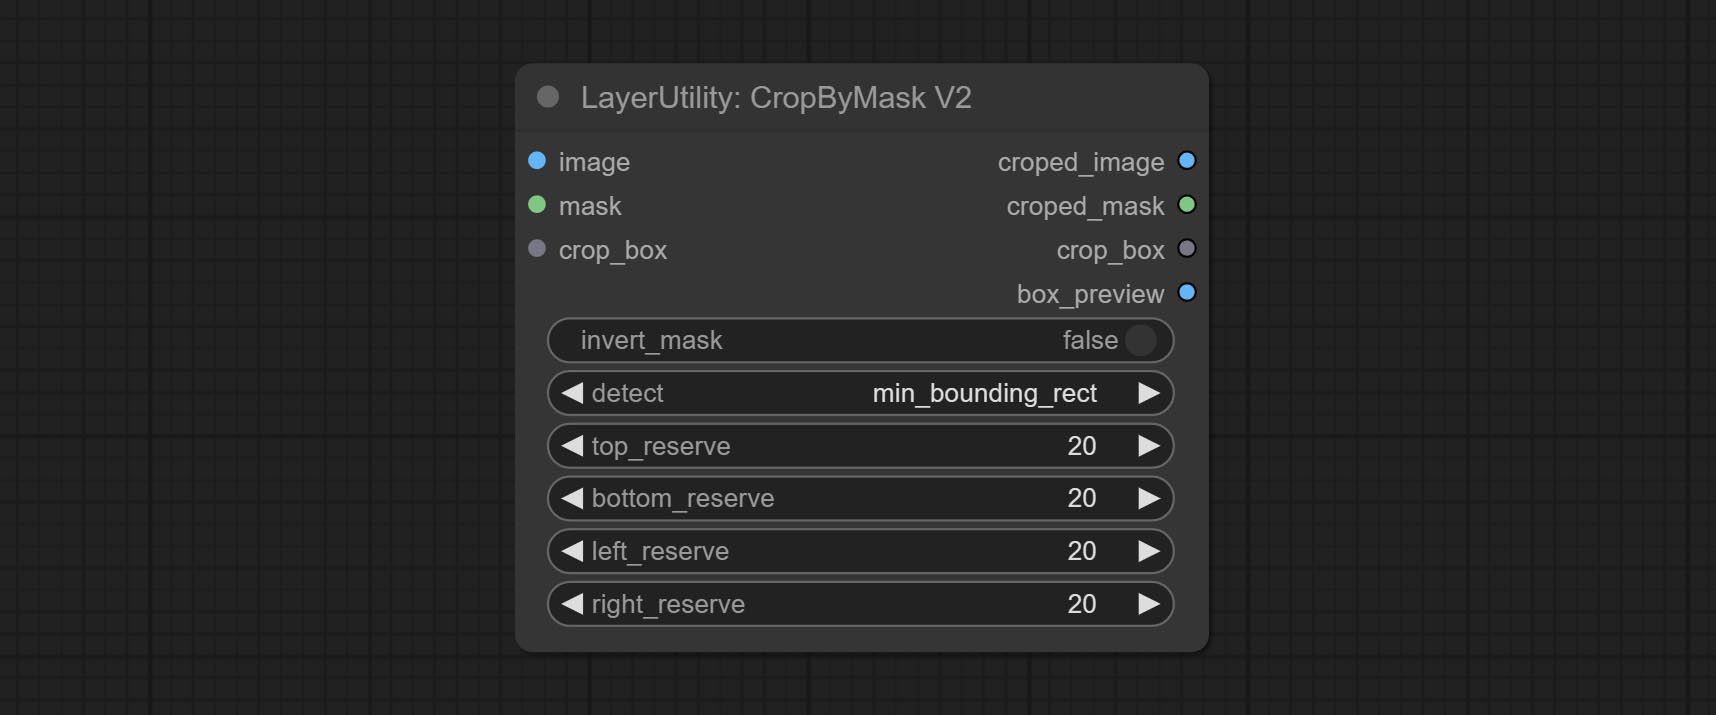
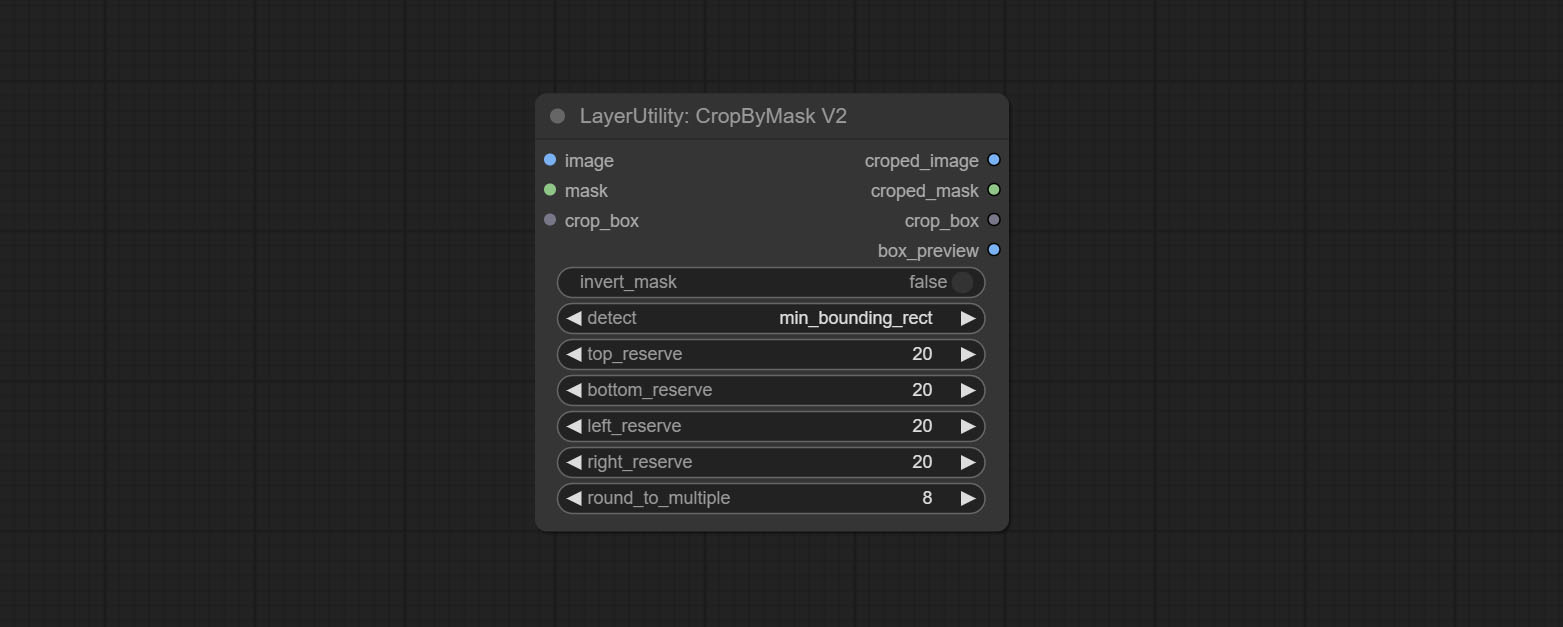
commit HSVValue, CheckMask nodes, and CropByMaskV2 node add round_to_multiple option

Changed region(s): [[0.3071, 0.2121, 0.7063, 0.8788], [0.3071, 0.1212, 0.5835, 0.3636]]

diff --git a/py/crop_by_mask_v2.py b/py/crop_by_mask_v2.py
@@ -9,7 +9,8 @@ class CropByMaskV2:
 
     @classmethod
     def INPUT_TYPES(self):
-        detect_mode = ['min_bounding_rect', 'max_inscribed_rect', 'mask_area']
+        detect_mode = ['mask_area', 'min_bounding_rect', 'max_inscribed_rect']
+        multiple_list = ['8', '16', '32', '64', 'None']
         return {
             "required": {
                 "image": ("IMAGE", ),  #
@@ -20,6 +21,7 @@ class CropByMaskV2:
                 "bottom_reserve": ("INT", {"default": 20, "min": -9999, "max": 9999, "step": 1}),
                 "left_reserve": ("INT", {"default": 20, "min": -9999, "max": 9999, "step": 1}),
                 "right_reserve": ("INT", {"default": 20, "min": -9999, "max": 9999, "step": 1}),
+                "round_to_multiple": (multiple_list,),
             },
             "optional": {
                 "crop_box": ("BOX",),
@@ -33,7 +35,7 @@ class CropByMaskV2:
 
     def crop_by_mask_v2(self, image, mask, invert_mask, detect,
                      top_reserve, bottom_reserve,
-                     left_reserve, right_reserve,
+                     left_reserve, right_reserve, round_to_multiple,
                      crop_box=None
                      ):
 
@@ -63,24 +65,31 @@ class CropByMaskV2:
             width = 0
             height = 0
             if detect == "min_bounding_rect":
-                (x, y, width, height) = min_bounding_rect(bluredmask)
+                (x, y, w, h) = min_bounding_rect(bluredmask)
             elif detect == "max_inscribed_rect":
-                (x, y, width, height) = max_inscribed_rect(bluredmask)
+                (x, y, w, h) = max_inscribed_rect(bluredmask)
             else:
-                (x, y, width, height) = mask_area(_mask)
+                (x, y, w, h) = mask_area(_mask)
 
-            width = num_round_to_multiple(width, 8)
-            height = num_round_to_multiple(height, 8)
-
-            log(f"{NODE_NAME}: Box detected. x={x},y={y},width={width},height={height}")
             canvas_width, canvas_height = tensor2pil(torch.unsqueeze(image[0], 0)).convert('RGB').size
             x1 = x - left_reserve if x - left_reserve > 0 else 0
             y1 = y - top_reserve if y - top_reserve > 0 else 0
-            x2 = x + width + right_reserve if x + width + right_reserve < canvas_width else canvas_width
-            y2 = y + height + bottom_reserve if y + height + bottom_reserve < canvas_height else canvas_height
+            x2 = x + w + right_reserve if x + w + right_reserve < canvas_width else canvas_width
+            y2 = y + h + bottom_reserve if y + h + bottom_reserve < canvas_height else canvas_height
+
+            if round_to_multiple != 'None':
+                multiple = int(round_to_multiple)
+                width = num_round_up_to_multiple(x2 - x1, multiple)
+                height = num_round_up_to_multiple(y2 - y1, multiple)
+                x1 = x1 - (width - (x2 - x1)) // 2
+                y1 = y1 - (height - (y2 - y1)) // 2
+                x2 = x1 + width
+                y2 = y1 + height
+
+            log(f"{NODE_NAME}: Box detected. x={x1},y={y1},width={width},height={height}")
             crop_box = (x1, y1, x2, y2)
-            preview_image = draw_rect(preview_image, x, y, width, height, line_color="#F00000",
-                                      line_width=(width + height) // 100)
+            preview_image = draw_rect(preview_image, x, y, w, h, line_color="#F00000",
+                                      line_width=(w + h) // 100)
         preview_image = draw_rect(preview_image, crop_box[0], crop_box[1],
                                   crop_box[2] - crop_box[0], crop_box[3] - crop_box[1],
                                   line_color="#00F000",

diff --git a/py/imagefunc.py b/py/imagefunc.py
@@ -1631,6 +1631,18 @@ def gray_threshold(image:Image, thresh:int=127, otsu:bool=False) -> Image:
 def image_to_colormap(image:Image, index:int) -> Image:
     return cv22pil(cv2.applyColorMap(pil2cv2(image), index))
 
+# 检查mask有效区域面积比例
+def mask_white_area(mask:Image, white_point:int) -> float:
+    if mask.mode != 'L':
+        mask.convert('L')
+    white_pixels = 0
+    for y in range(mask.height):
+        for x in range(mask.width):
+            mask.getpixel((x, y)) > 16
+            if mask.getpixel((x, y)) > white_point:
+                white_pixels += 1
+    return white_pixels / (mask.width * mask.height)
+
 '''Color Functions'''
 
 
@@ -1766,6 +1778,7 @@ def random_numbers(total:int, random_range:int, seed:int=0, sum_of_numbers:int=0
     ret_list.append((sum_of_numbers - sum(ret_list)) // 2)
     return ret_list
 
+# 四舍五入取整数倍
 def num_round_to_multiple(number:int, multiple:int) -> int:
     remainder = number % multiple
     if remainder == 0 :
@@ -1774,6 +1787,15 @@ def num_round_to_multiple(number:int, multiple:int) -> int:
         factor = int(number / multiple)
         if number - factor * multiple > multiple / 2:
             factor += 1
+        return factor * multiple
+
+# 向上取整数倍
+def num_round_up_to_multiple(number: int, multiple: int) -> int:
+    remainder = number % multiple
+    if remainder == 0:
+        return number
+    else:
+        factor = (number + multiple - 1) // multiple  # 向上取整的计算方式
         return factor * multiple
 
 def calculate_side_by_ratio(orig_width:int, orig_height:int, ratio:float, longest_side:int=0) -> int:

diff --git a/py/check_mask.py b/py/check_mask.py
@@ -1,0 +1,46 @@
+from .imagefunc import *
+
+NODE_NAME = 'CheckMask'
+
+# 检查mask是否有效，如果mask面积少于指定比例则判为无效mask
+class CheckMask:
+
+    def __init__(self):
+        pass
+
+    @classmethod
+    def INPUT_TYPES(self):
+        blank_mask_list = ['white', 'black']
+        return {
+            "required": {
+                "mask": ("MASK",),  #
+                "white_point": ("INT", {"default": 1, "min": 1, "max": 254, "step": 1}), # 用于判断mask是否有效的白点值，高于此值被计入有效
+                "area_percent": ("INT", {"default": 1, "min": 1, "max": 99, "step": 1}), # 区域百分比，低于此则mask判定无效
+            },
+            "optional": { #
+            }
+        }
+
+    RETURN_TYPES = ("BOOLEAN",)
+    RETURN_NAMES = ('bool',)
+    FUNCTION = 'check_mask'
+    CATEGORY = '😺dzNodes/LayerUtility'
+
+    def check_mask(self, mask, white_point, area_percent,):
+
+        if mask.dim() == 2:
+            mask = torch.unsqueeze(mask, 0)
+        mask = tensor2pil(mask[0])
+        if mask.width * mask.height > 262144:
+            target_width = 512
+            target_height = int(target_width * mask.height / mask.width)
+            mask = mask.resize((target_width, target_height), Image.LANCZOS)
+        return (mask_white_area(mask, white_point) * 100 > area_percent,)
+
+NODE_CLASS_MAPPINGS = {
+    "LayerUtility: CheckMask": CheckMask
+}
+
+NODE_DISPLAY_NAME_MAPPINGS = {
+    "LayerUtility: CheckMask": "LayerUtility: Check Mask"
+}

diff --git a/py/color_to_HSVvalue.py b/py/color_to_HSVvalue.py
@@ -1,0 +1,44 @@
+from .imagefunc import *
+
+NODE_NAME = 'HSV Value'
+any = AnyType("*")
+
+class ColorValuetoHSVValue:
+
+    def __init__(self):
+        pass
+
+    @classmethod
+    def INPUT_TYPES(self):
+
+        return {
+            "required": {
+                "color_value": (any, {}),
+            },
+            "optional": {
+            }
+        }
+
+    RETURN_TYPES = ("INT", "INT", "INT")
+    RETURN_NAMES = ("H", "S", "V")
+    FUNCTION = 'color_value_to_hsv_value'
+    CATEGORY = '😺dzNodes/LayerUtility/Data'
+
+    def color_value_to_hsv_value(self, color_value,):
+        H, S, V = 0, 0, 0
+        if isinstance(color_value, str):
+            H, S, V = Hex_to_HSV_255level(color_value)
+        elif isinstance(color_value, tuple):
+            H, S, V = Hex_to_HSV_255level(RGB_to_Hex(color_value))
+        else:
+            log(f"{NODE_NAME}: color_value input type must be tuple or string.", message_type="error")
+
+        return (H, S, V,)
+
+NODE_CLASS_MAPPINGS = {
+    "LayerUtility: HSV Value": ColorValuetoHSVValue
+}
+
+NODE_DISPLAY_NAME_MAPPINGS = {
+    "LayerUtility: HSV Value": "LayerUtility: HSV Value"
+}

diff --git a/README.MD b/README.MD
@@ -80,6 +80,8 @@ When this error has occurred, please check the network environment.
 ## Update
 <font size="4">**If the dependency package error after updating, please reinstall the relevant dependency packages. </font><br />    
 
+* [CropByMaskV2](#CropByMaskV2) add option to round the cutting size by multiples.
+* Commit [CheckMask](#CheckMask) node, it detect whether the mask contains sufficient effective areas. Commit [HSVValue](#HSVValue) node, it convert color values to HSV values.
 * [BooleanOperatorV2](#BooleanOperatorV2), [NumberCalculatorV2](#NumberCalculatorV2), [Integer](#Integer), [Float](#Float), [Boolean](#Boolean) nodes add string output to output the value as a string for use with [SwitchCase](#SwitchCase).
 * Commit [SwitchCase](#SwitchCase) node, Switches the output based on the matching string. Can be used for any type of data switching.
 * Commit [String](#String) node, Used to output a string. It is the TextBox simplified node.
@@ -564,6 +566,7 @@ The following changes have been made based on CropByMask:
 ![image](image/corp_by_mask_v2_node.jpg)    
 * The input ```mask_for_crop``` reanme to ```mask```。
 * Add optional inputs to the ```crop_box```. If there are inputs here, mask detection will be ignored and this data will be directly used for cropping.
+* Add the option ```round_to_multiple``` to round the trimming edge length multiple. For example, setting it to 8 will force the width and height to be multiples of 8.
 
 ### <a id="table1">RestoreCropBox</a>
 Restore the cropped image to the original image by [CropByMask](#CropByMask).
@@ -764,6 +767,13 @@ Output type:
 Output the color value as a single R, G, B three decimal values. Supports HEX and DEC formats for ColorPicker node output.
 
 ![image](image/RGB_value_example.jpg)    
+
+Node Options:
+* color_value: Supports hexadecimal (HEX) or decimal (DEC) color values and should be of string or tuple type. Forcing in other types will result in an error.
+
+### <a id="table1">HSVValue</a>
+Output color values as individual decimal values of H, S, and V (maximum value of 255). Supports HEX and DEC formats for ColorPicker node output.
+![image](image/hsv_value_node.jpg)    
 
 Node Options:
 * color_value: Supports hexadecimal (HEX) or decimal (DEC) color values and should be of string or tuple type. Forcing in other types will result in an error.
@@ -1168,6 +1178,14 @@ Node Options:
 * text: Input text.
 * condition: Judgment conditions. ```include``` determines whether it contains a substring, and ```exclude``` determines whether it does not.
 * sub_string: Substring.
+
+### <a id="table1">CheckMask</a>
+Check if the mask contains enough valid areas and output a Boolean value.
+
+Node Options:    
+![image](image/check_mask_node.jpg)    
+* white_point: The white point threshold used to determine whether the mask is valid is considered valid if it exceeds this value.
+* area_percent: The percentage of effective areas. If the proportion of effective areas exceeds this value, output True.
 
 
 ### <a id="table1">If</a>
